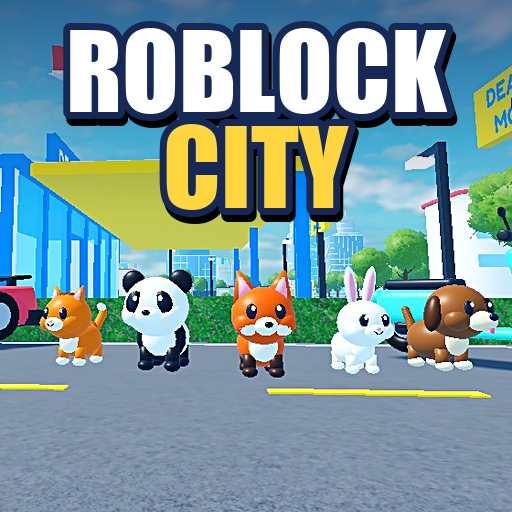
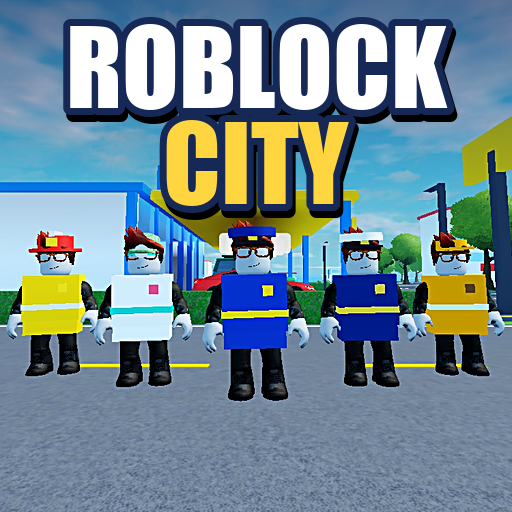
Ikon baru: karakter berseragam lima pekerjaan; thumbnail pekerjaan

diff --git a/tools/buat_marketing.py b/tools/buat_marketing.py
@@ -81,13 +81,13 @@ def thumbnail(name: str, source: str, focus, tagline: str, big_title: bool) -> N
 
 
 def icon() -> None:
-    # potong lebih dekat ke hewan-hewan supaya terbaca di ukuran kecil
-    source = Image.open(os.path.join(SRC, "hero.jpg")).convert("RGB").crop((440, 150, 1000, 710))
+    # lima karakter berseragam (pemadam, dokter, polisi, pilot, kurir); judul di langit
+    source = Image.open(os.path.join(SRC, "pekerjaan.jpg")).convert("RGB").crop((370, 51, 1120, 801))
     image = fit(source, 512, 512)
-    image = shade(image, 0.42, 0.0)
+    image = shade(image, 0.5, 0.0)
     draw = ImageDraw.Draw(image)
-    text(draw, (256, 70), "ROBLOCK", ImageFont.truetype(FONT, 104), WHITE, 7)
-    text(draw, (256, 166), "CITY", ImageFont.truetype(FONT, 104), YELLOW, 7)
+    text(draw, (256, 66), "ROBLOCK", ImageFont.truetype(FONT, 104), WHITE, 7)
+    text(draw, (256, 162), "CITY", ImageFont.truetype(FONT, 104), YELLOW, 7)
     image.convert("RGB").save(os.path.join(OUT, "ikon_512.png"), "PNG")
     print("ok ikon_512.png", image.size)
 
@@ -96,4 +96,5 @@ if __name__ == "__main__":
     icon()
     thumbnail("thumbnail_1_utama.png", "hero.jpg", (0.5, 0.42), "Mobil, motor, pesawat, dan hewan peliharaan!", True)
     thumbnail("thumbnail_2_kota.png", "kota.jpg", (0.5, 0.55), "Jelajahi kota, bekerja, dan beli rumah impianmu", False)
+    thumbnail("thumbnail_4_pekerjaan.png", "pekerjaan_dekat.jpg", (0.5, 0.62), "Jadi polisi, pemadam, dokter, pilot, dan lainnya!", False)
     thumbnail("thumbnail_3_pantai.png", "pantai.jpg", (0.5, 0.5), "Liburan di Pulau Pantai dan sewa perahu", False)
